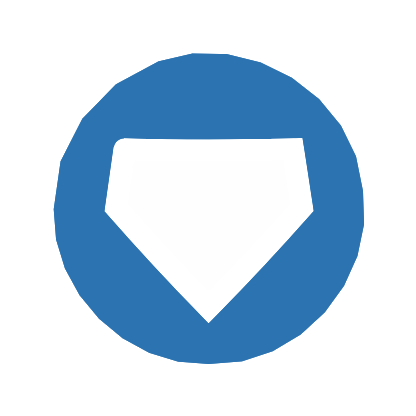
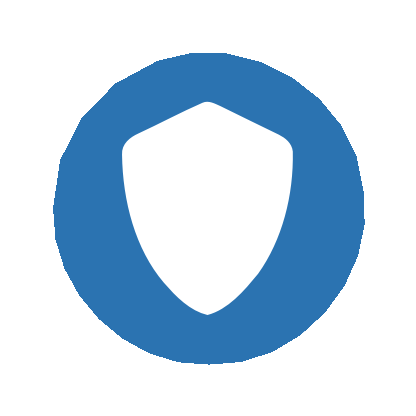
update human badge

diff --git a/lib/badges.rb b/lib/badges.rb
@@ -3,7 +3,7 @@ $badges = {
     defs do
       group(id: 'badge') do
         raw %Q[
-          <path fill="#fff" opacity="1.00" d=" M 5.94 7.13 C 8.64 7.22 11.34 7.19 14.05 7.13 C 14.16 7.83 14.37 9.24 14.48 9.94 C 13.03 11.58 11.53 13.19 9.99 14.75 C 8.46 13.19 6.98 11.59 5.54 9.95 C 5.64 9.24 5.84 7.83 5.94 7.13 Z" />
+          <path d="M9.789,4.912 C10.052,4.777 10.319,4.957 10.563,5.077 C11.388,5.542 12.219,5.988 13.046,6.445 C13.309,6.593 13.598,6.844 13.636,7.25 C13.675,9.351 13.187,11.498 12.156,13.121 C11.555,13.952 10.876,14.836 10.002,15.097 C9.265,14.905 8.66,14.221 8.139,13.54 C6.926,11.935 6.39,9.628 6.364,7.403 C6.333,6.875 6.724,6.556 7.05,6.391 C7.967,5.913 8.864,5.366 9.789,4.912 z" fill="#FEFEFF"/>
         ]
       end
     end
